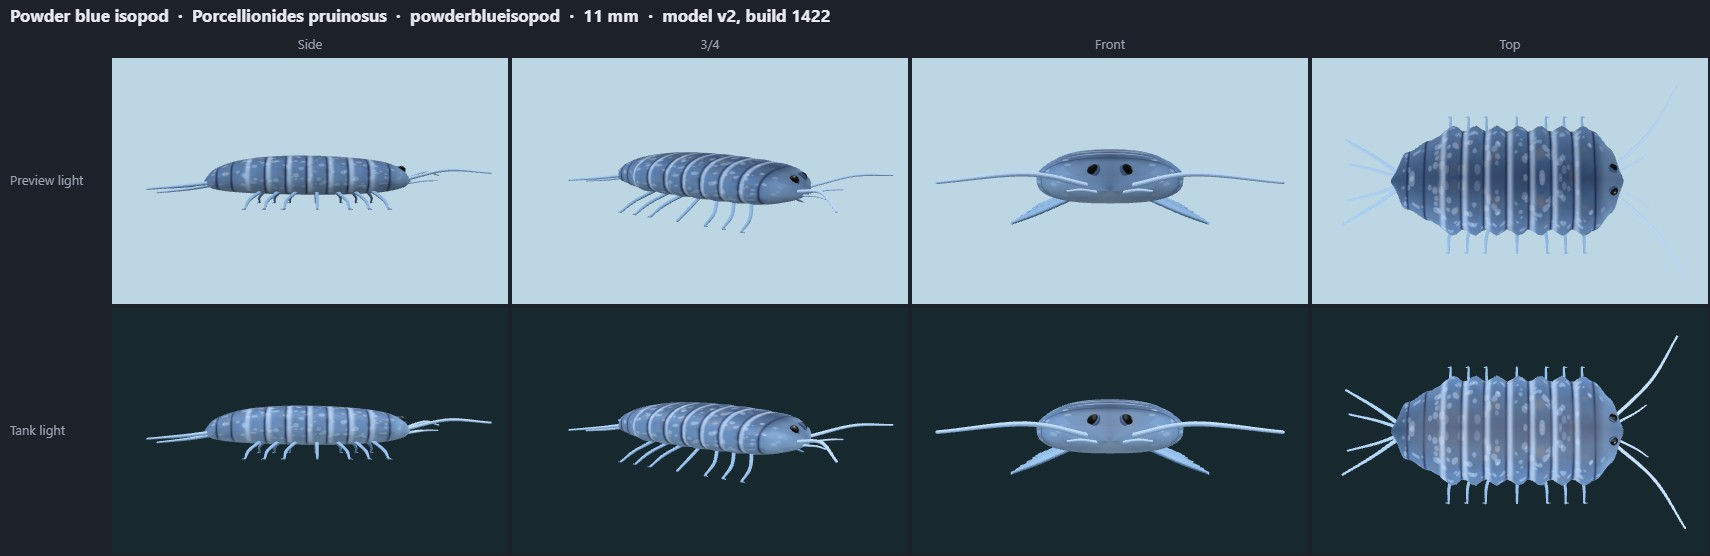
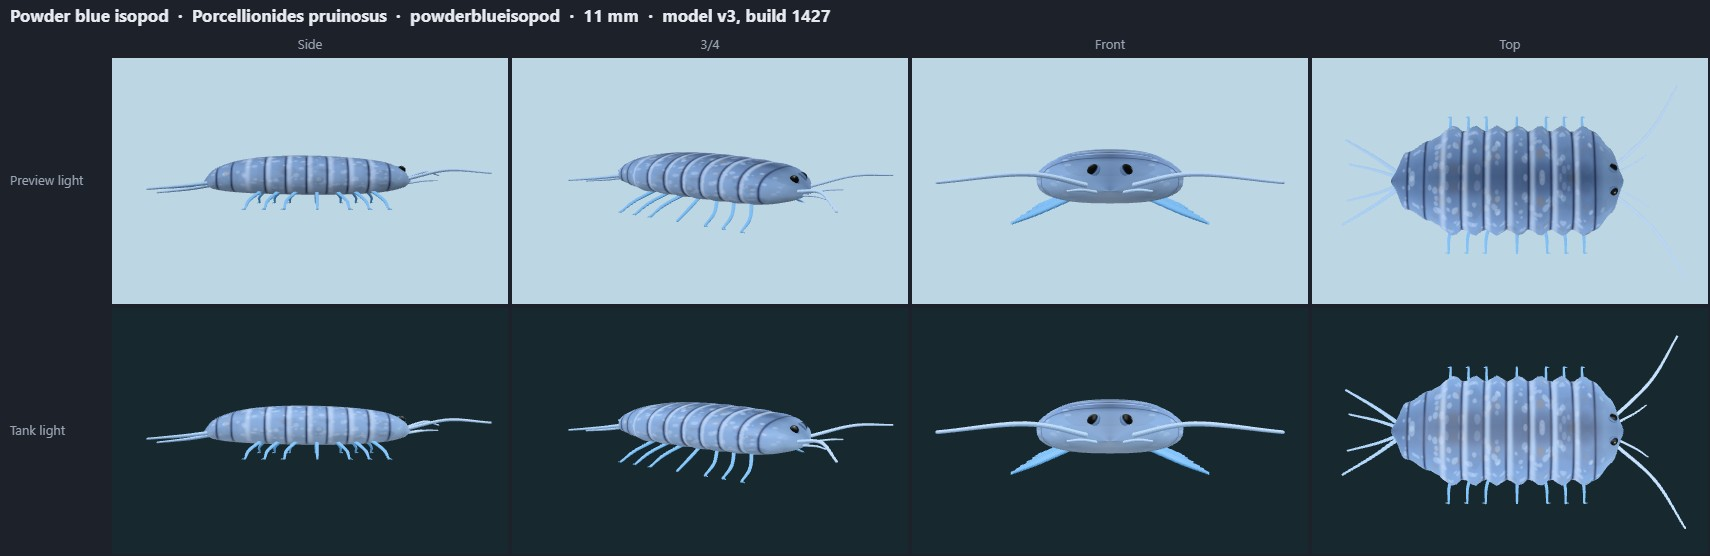
Arthropod polish 3 (lane A3): 2D cards draw solids and knees, scorpion legs keep smooth normals (no facet stripe), slimmer mantis eye cones, lighter powder-blue isopod colours; sheets re-recorded

diff --git a/public/model-sheets/index.html b/public/model-sheets/index.html
@@ -10,7 +10,7 @@ figure { margin: 8px 0 14px; padding: 8px; background: var(--panel); border-radi
 img { display: block; max-width: 100%; height: auto }
 </style></head><body>
 <h1>Model sheets</h1>
-<p>Pre-rendered review images of every TankLook animal model (no WebGL needed): 159 models, 108 species, written at build 1422.
+<p>Pre-rendered review images of every TankLook animal model (no WebGL needed): 159 models, 108 species, written at build 1427.
 Each sheet shows the Side, 3/4, Front, Top views; top row in the plain preview light, bottom row at true size in the default tank's LED light and water.
 Click a sheet for the full-size image (1710 × 556 px). Interactive version: <a href="../review.html">review.html</a>.</p>
 <h2>Freshwater fish</h2>
@@ -148,8 +148,8 @@ Click a sheet for the full-size image (1710 × 556 px). Interactive version: <a 
 <figure id="africanmillipede"><figcaption><b>Giant African millipede</b> · <i>Archispirostreptus gigas</i> · africanmillipede · 250 mm · model v1 (build 1416, 2026-10-28)</figcaption><a href="africanmillipede.jpg"><img src="africanmillipede.jpg" width="1710" height="556" loading="lazy" alt="Giant African millipede (Archispirostreptus gigas), model v1: Side, 3/4, Front, Top views, preview light (top row) and tank light (bottom row)"></a></figure>
 <figure id="hissingroach"><figcaption><b>Madagascar hissing cockroach</b> · <i>Gromphadorhina portentosa</i> · hissingroach · 70 mm · model v1 (build 1416, 2026-10-28)</figcaption><a href="hissingroach.jpg"><img src="hissingroach.jpg" width="1710" height="556" loading="lazy" alt="Madagascar hissing cockroach (Gromphadorhina portentosa), model v1: Side, 3/4, Front, Top views, preview light (top row) and tank light (bottom row)"></a></figure>
 <figure id="zebraisopod"><figcaption><b>Zebra isopod</b> · <i>Armadillidium maculatum</i> · zebraisopod · 18 mm · model v1 (build 1416, 2026-10-28)</figcaption><a href="zebraisopod.jpg"><img src="zebraisopod.jpg" width="1710" height="556" loading="lazy" alt="Zebra isopod (Armadillidium maculatum), model v1: Side, 3/4, Front, Top views, preview light (top row) and tank light (bottom row)"></a></figure>
-<figure id="powderblueisopod"><figcaption><b>Powder blue isopod</b> · <i>Porcellionides pruinosus</i> · powderblueisopod · 11 mm · model v2 (build 1422, 2026-10-28)</figcaption><a href="powderblueisopod.jpg"><img src="powderblueisopod.jpg" width="1710" height="556" loading="lazy" alt="Powder blue isopod (Porcellionides pruinosus), model v2: Side, 3/4, Front, Top views, preview light (top row) and tank light (bottom row)"></a></figure>
-<figure id="orchidmantis"><figcaption><b>Orchid mantis</b> · <i>Hymenopus coronatus</i> · orchidmantis · 70 mm · model v2 (build 1422, 2026-10-28)</figcaption><a href="orchidmantis.jpg"><img src="orchidmantis.jpg" width="1710" height="556" loading="lazy" alt="Orchid mantis (Hymenopus coronatus), model v2: Side, 3/4, Front, Top views, preview light (top row) and tank light (bottom row)"></a></figure>
+<figure id="powderblueisopod"><figcaption><b>Powder blue isopod</b> · <i>Porcellionides pruinosus</i> · powderblueisopod · 11 mm · model v3 (build 1427, 2026-10-28)</figcaption><a href="powderblueisopod.jpg"><img src="powderblueisopod.jpg" width="1710" height="556" loading="lazy" alt="Powder blue isopod (Porcellionides pruinosus), model v3: Side, 3/4, Front, Top views, preview light (top row) and tank light (bottom row)"></a></figure>
+<figure id="orchidmantis"><figcaption><b>Orchid mantis</b> · <i>Hymenopus coronatus</i> · orchidmantis · 70 mm · model v3 (build 1427, 2026-10-28)</figcaption><a href="orchidmantis.jpg"><img src="orchidmantis.jpg" width="1710" height="556" loading="lazy" alt="Orchid mantis (Hymenopus coronatus), model v3: Side, 3/4, Front, Top views, preview light (top row) and tank light (bottom row)"></a></figure>
 <figure id="indianstick"><figcaption><b>Indian stick insect</b> · <i>Carausius morosus</i> · indianstick · 80 mm · model v2 (build 1422, 2026-10-28)</figcaption><a href="indianstick.jpg"><img src="indianstick.jpg" width="1710" height="556" loading="lazy" alt="Indian stick insect (Carausius morosus), model v2: Side, 3/4, Front, Top views, preview light (top row) and tank light (bottom row)"></a></figure>
 <figure id="purplepincher"><figcaption><b>Purple pincher hermit crab</b> · <i>Coenobita clypeatus</i> · purplepincher · 75 mm · model v1 (build 1416, 2026-10-28)</figcaption><a href="purplepincher.jpg"><img src="purplepincher.jpg" width="1710" height="556" loading="lazy" alt="Purple pincher hermit crab (Coenobita clypeatus), model v1: Side, 3/4, Front, Top views, preview light (top row) and tank light (bottom row)"></a></figure>
 <h2>Tech gear</h2>

diff --git a/src/art/arth/scorpion.ts b/src/art/arth/scorpion.ts
@@ -10,12 +10,12 @@ const side: [number, number, string?][] = [[0.8, g - 0.07, 'c'], [0.75, g - 0.12
 const J = (u: number, dv: number, z: number, r: number): [number, number, number, number] => [u, g - dv, z, r];
 // four pairs of walking legs: femur up and out, tibia and foot down to the ground; the front pair reaches forward, the rear pair back
 const legs: Limb3D[] = [[0.66, 0.08], [0.55, 0.01], [0.43, -0.03], [0.32, -0.07]].map(([u, k]) => ({
-  js: [J(u, 0.05, 0.08, 0.019), J(u + k * 0.5 + 0.03, 0.105, 0.22, 0.017), J(u + k + 0.07, 0.06, 0.29, 0.0125), J(u + k + 0.1, 0.012, 0.33, 0.008)], toes: [[0.012, 0]] as [number, number][], toe: 0.007, seg: '#1c2230', waist: 0.82, c: ['#090d14', '#080b10'] as [string, string] }));
+  js: [J(u, 0.05, 0.08, 0.019), J(u + k * 0.5 + 0.03, 0.105, 0.22, 0.017), J(u + k + 0.07, 0.06, 0.29, 0.0125), J(u + k + 0.1, 0.012, 0.33, 0.008)], toes: [[0.012, 0]] as [number, number][], toe: 0.007, smooth: true, seg: '#1c2230', waist: 0.82, c: ['#090d14', '#080b10'] as [string, string] }));
 // pedipalps: short arm, then the big granular chela (palm and two fingers)
-const palp: Limb3D = { js: [J(0.72, 0.065, 0.06, 0.03), J(0.78, 0.095, 0.14, 0.028), J(0.835, 0.07, 0.17, 0.027)], toes: [], toe: 0, seg: '#222a38', waist: 0.86, claw: { palm: 0.105, r: 0.062, finger: 0.075 }, c: CLAW };
+const palp: Limb3D = { js: [J(0.72, 0.065, 0.06, 0.03), J(0.78, 0.095, 0.14, 0.028), J(0.835, 0.07, 0.17, 0.027)], toes: [], toe: 0, smooth: true, seg: '#222a38', waist: 0.86, claw: { palm: 0.105, r: 0.062, finger: 0.075 }, c: CLAW };
 // the tail: five slim segments climbing behind, arching over the back, tip pointing forward; the amber telson (bulb and sting) is its own limb
 const TAILJ = [J(0.23, 0.07, 0, 0.034), J(0.13, 0.11, 0, 0.032), J(0.085, 0.2, 0, 0.03), J(0.1, 0.29, 0, 0.0285), J(0.18, 0.35, 0, 0.027), J(0.28, 0.37, 0, 0.025), J(0.37, 0.345, 0, 0.0235)];
-const tail: Limb3D = { js: TAILJ, toes: [], toe: 0, seg: '#2a2c34', waist: 0.93, c: [SLATE, '#080b10'] };
+const tail: Limb3D = { js: TAILJ, toes: [], toe: 0, smooth: true, seg: '#2a2c34', waist: 0.93, c: [SLATE, '#080b10'] };
 const telson: Limb3D = { js: [J(0.36, 0.345, 0, 0.022), J(0.4, 0.33, 0, 0.0315), J(0.43, 0.31, 0, 0.012), J(0.445, 0.285, 0, 0.004)], toes: [], toe: 0, c: AMBER };
 // tergite plates across the back (grooves) over a pitted, granular carapace
 const marks: Mark3D[] = [

diff --git a/src/art/arthropods.ts b/src/art/arthropods.ts
@@ -27,7 +27,19 @@ function drawArth(s: ArthSpec, ctx: Ctx, P: Proj, W: number) {
       const a = l.js[i - 1], b = l.js[i], [x0, y0] = P(a[0] - (far ? 0.015 : 0), a[1]), [x1, y1] = P(b[0] - (far ? 0.015 : 0), b[1]);
       ctx.lineWidth = Math.max(1, (a[3] + b[3]) * W); ctx.beginPath(); ctx.moveTo(x0, y0); ctx.lineTo(x1, y1); ctx.stroke();
     }
+    // knobbed knees (the 3D leg swells its interior joints by `knee`)
+    if (l.knee && !far) for (let i = 1; i < l.js.length - 1; i++) { const [x, y] = P(l.js[i][0], l.js[i][1]); ctx.fillStyle = c; ctx.beginPath(); ctx.arc(x, y, Math.max(1, l.js[i][3] * l.knee * W), 0, 7); ctx.fill(); }
     ctx.globalAlpha = 1;
+  };
+  // the 3D body's extra solids (eye cones, wing panels, leg lobes, spines, hairs) as ellipses along their axis, near side and midline only
+  const solids = () => {
+    for (const sd of h.solids ?? []) {
+      if (sd.at[2] < 0) continue;
+      const [x, y] = P(sd.at[0], sd.at[1]), [x1, y1] = P(sd.at[0] + sd.ax[0], sd.at[1] + sd.ax[1]), rot = Math.atan2(y1 - y, x1 - x), len = Math.hypot(sd.ax[0], sd.ax[1]);
+      if (len < 0.05 || Math.max(sd.r[1], sd.r[2]) < 0.004) continue; // pointing at the viewer, or a hair or keel too fine for the card
+      const thick = sd.up && Math.abs(sd.up[2]) > 0.5 ? sd.r[2] : sd.r[1]; // the half-thickness seen from the side
+      ctx.fillStyle = sd.c[0]; ctx.beginPath(); ctx.ellipse(x, y, Math.max(1, sd.r[0] * W), Math.max(0.6, thick * W), rot, 0, 7); ctx.fill();
+    }
   };
   for (const l of h.limbs) chain(l, true);
   body(ctx, P, W, h.side, g - 0.3, g, [[0, col(0)], [0.5, col(1)], [1, col(2)]], 0.02, l => {
@@ -35,6 +47,7 @@ function drawArth(s: ArthSpec, ctx: Ctx, P: Proj, W: number) {
       if (m.k === 'spots') { const r = rng(m.seed); for (let i = 0; i < Math.min(m.n, 40); i++) blob(l, P, W, m.u[0] + r() * (m.u[1] - m.u[0]), g - 0.12 + r() * 0.06, m.r[1], m.r[1] * 0.7, m.c, m.o * 0.5); }
     }
   });
+  solids();
   for (const l of h.limbs) chain(l, false);
 }
 export const ARTH_ART: Record<string, (ctx: Ctx, P: Proj, W: number) => void> = Object.fromEntries(Object.entries(ARTH).map(([k, s]) => [k, (c: Ctx, P: Proj, W: number) => drawArth(s, c, P, W)]));

diff --git a/src/art/herps.ts b/src/art/herps.ts
@@ -405,7 +405,7 @@ const ISOPODS: Record<string, IsoSpec> = {
   asellus: { body: ['#5a5042', '#8a7c68', '#b0a288'], leg: ['#6a6050', '#90846c', '#b0a68c'], mark: '#3a3226', eye: ['#2a2420', '#080606'] },
   // land isopods (lane arthropods 2026-10-28): placeholders on the asellus body until their own colours are painted
   zebraisopod: { body: ['#121212', '#1c1c1c', '#34322e'], leg: ['#3a3836', '#5a5854', '#7a7874'], mark: '#f2f0e6', eye: ['#2a2420', '#080606'] },
-  powderblueisopod: { body: ['#3a4a64', '#5f7696', '#94a9c4'], leg: ['#58708e', '#86a0be', '#a8bcd4'], mark: '#34405a', eye: ['#1c1816', '#030202'] },
+  powderblueisopod: { body: ['#566a8a', '#7e94b6', '#a8bdd8'], leg: ['#6a9aca', '#8cb6de', '#b2d0ec'], mark: '#34405a', eye: ['#1c1816', '#030202'] },
 };
 const ISO_SIDE: Pt[] = [[0.84, 0.07, 'c'], [0.78, 0.03], [0.6, -0.005], [0.4, -0.01], [0.22, 0.0], [0.1, 0.04, 'c'], [0.14, 0.1], [0.4, 0.115], [0.7, 0.115], [0.8, 0.1]];
 const ISO_LIMBS: Limb3D[] = [
@@ -510,6 +510,7 @@ export interface Limb3D {
   seg?: string;                // an arthropod leg: segments swelling between narrow joints, the joints in this colour (hermit crab)
   claw?: { palm: number; r: number; finger: number }; // a chela on the end: palm length, palm half-height, finger length (widths)
   c?: [string, string];        // own colour (top, underside), else the species' legCol (hermit crab antennae)
+  smooth?: boolean;           // keep the tubes' own smooth normals instead of flat facets (a facet stripe shows on dark, glossy-edged legs: the scorpion's)
   waist?: number;             // `seg` legs: how narrow the joints are against the segments' swell (default 0.74; nearer 1 = a smooth tube, a scorpion's tail)
   far?: number;                // the far side's copy is scaled by this about the root (hermit crab: a small right claw; the near side is the big left one)
   farJs?: Joint[];              // the far side's own joint chain (mirrored in z), so left and right legs differ (stick insect); else the mirror of `js`

diff --git a/src/art/arth/mantis.ts b/src/art/arth/mantis.ts
@@ -43,7 +43,7 @@ const solids: Solid3D[] = [
   ...[0.25, 0.5, 0.75].map(t => spine(KNEE, TIP, t, 0.044, 0.011)),
   // head: a small triangular capsule, big conical lilac-grey eyes on its sides, a pointed crest between them, the mouth parts below
   { at: [0.915, -0.265, 0], r: [0.04, 0.03, 0.036], ax: [0.25, 1, 0], pt: 0.88, c: ['#f4eedb', '#eadfce'], one: true },
-  { at: [0.925, -0.305, 0.036], r: [0.072, 0.027, 0.027], ax: [0.1, -1, 0.6], pt: 0.9, c: ['#dcd8e6', '#a9a2be'] },
+  { at: [0.925, -0.305, 0.036], r: [0.076, 0.019, 0.019], ax: [0.1, -1, 0.6], pt: 0.92, c: ['#dcd8e6', '#a9a2be'] },
   { at: [0.9, -0.322, 0], r: [0.04, 0.011, 0.011], ax: [0.35, -1, 0], pt: 1, c: ['#f0efd6', '#cfd6a8'], one: true },
   { at: [0.935, -0.215, 0.012], r: [0.02, 0.008, 0.008], ax: [0.3, 1, 0.2], pt: 0.9, c: ['#e8dccc', '#bfa890'] },
   // pronotum: lobed edges, and the green mark at its base (pale green on the cream)

diff --git a/src/render/herp3d.ts b/src/render/herp3d.ts
@@ -292,7 +292,7 @@ function limbGeometry(l: Limb3D, ground: number, col: (ny: number) => THREE.Colo
     }
   }
   if (l.web && digits.length > 1) parts.push(webGeometry(digits, l.web));
-  const g = shade(mergeGeometries(parts)!, 0.3, col, !!l.thigh);
+  const g = shade(mergeGeometries(parts)!, 0.3, col, !!l.thigh || !!l.smooth);
   if (l.seg) {
     const c = g.attributes.color, n = g.attributes.normal, jc = new THREE.Color(l.seg);
     for (const [a, b] of bands) for (let i = a; i < b; i++) { const k = 1 - 0.3 * Math.max(0, -n.getY(i)); c.setXYZ(i, jc.r * k, jc.g * k, jc.b * k); }
